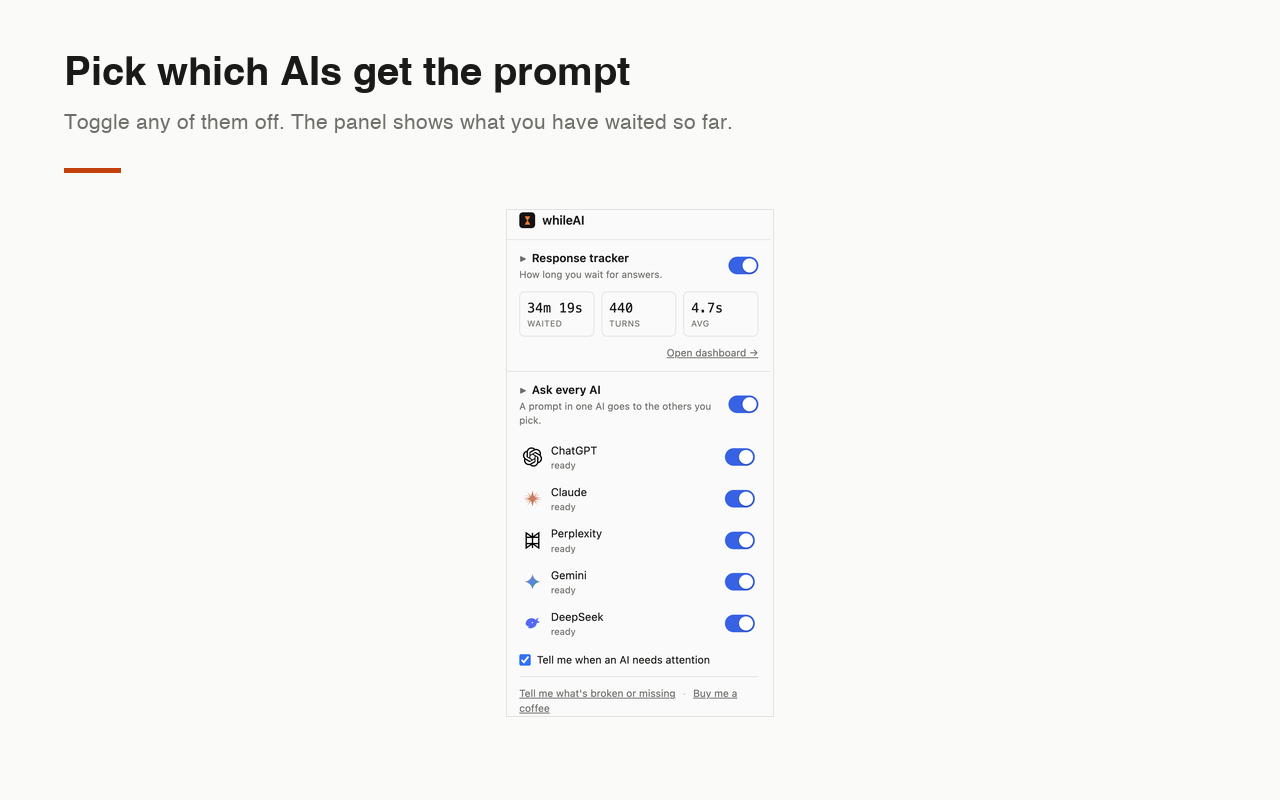
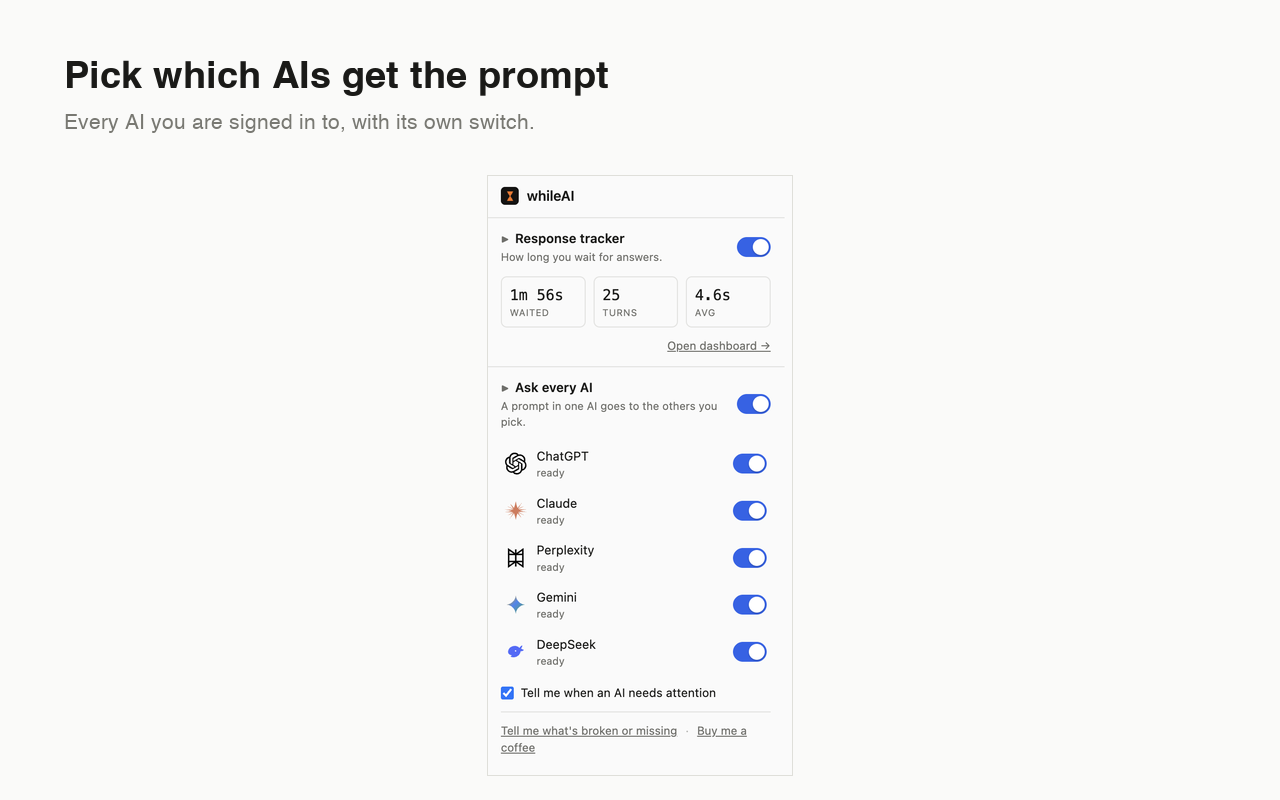
release: 0.8.2, and a five-AI demo
The demo showed two AIs while the copy claimed five, so the picture leaned on
its caption to make the product's main claim. All five accounts are signed in,
so the recording now shows all five.

- img/demo5.gif replaces img/demo.gif: one prompt typed in ChatGPT arriving in
  Claude, Perplexity, Gemini and DeepSeek. The source pane is large and the
  four targets tiled, so it is visible which tab was typed in. Recorded AFTER
  the phantom-prompt fix, so no pane holds text the user never wrote, and with
  Gemini in English -- an earlier take had a Turkish UI in a shot meant for an
  English listing.
- img/popup.png and store-assets/screenshot-3-panel.png: the panel with all
  five AIs listed "ready", replacing a capture whose section was collapsed and
  whose frame was half empty. Declared width/height match the files, so the
  page does not shift as images load.
- Drops screenshot-1-dashboard.png and screenshot-2-popup.png, superseded by
  the numbered six-shot set, so there is no ambiguity about what to upload.
- Version 0.8.2, carrying the fix in the previous commit.

The raw capture frames are deliberately NOT here: 19MB of screenshots for one
583KB GIF. They live beside the repo in ../whileai-recordings/ with the
scripts that made them, and scripts/make-demo-gif5.mjs documents the rebuild
command. Verified that it reproduces img/demo5.gif byte for byte from that
copy; recordings/ is in .gitignore so it cannot drift back in.

diff --git a/index.html b/index.html
@@ -71,13 +71,13 @@
 </figure>
 
 <figure class="shot wide">
-  <img src="img/demo.gif" alt="A recording of the extension in use: a prompt typed in ChatGPT appears on its own in a Claude tab, and both answer." width="1300" height="496" loading="lazy" />
+  <img src="img/demo5.gif" alt="A recording of the extension in use: a prompt typed in ChatGPT arrives on its own in Claude, Perplexity, Gemini and DeepSeek, and all five answer." width="1556" height="538" loading="lazy" />
   <figcaption>Not a mock-up — a recording of the extension running. The prompt
-  was typed only in the left tab.</figcaption>
+  was typed only in the ChatGPT tab; the other four received it on their own.</figcaption>
 </figure>
 
 <figure class="shot panel">
-  <img src="img/popup.png" alt="The whileAI panel: five AI services listed, each with a toggle, above waiting-time statistics." width="930" height="1772" />
+  <img src="img/popup.png" alt="The whileAI panel: ChatGPT, Claude, Perplexity, Gemini and DeepSeek each listed as ready with their own toggle, above waiting-time statistics." width="615" height="1208" />
   <figcaption>Pick which AIs get the prompt. The panel also shows what you have
   waited so far.</figcaption>
 </figure>

diff --git a/CHANGELOG.md b/CHANGELOG.md
@@ -1,5 +1,22 @@
 # Changelog
 
+## 0.8.2 — 2026-09-09
+
+- **An AI's own status text is never relayed as your prompt.** While an answer
+  streamed, DeepSeek rendered progress notices ("Read 12 web pages",
+  "Searching for ...") inside the same containers that hold user messages, so
+  the extension read them as something you had typed and sent them on to the
+  other four AIs. With capture enabled on every tab, each target then became a
+  source and the text went round again — one prompt produced six queue
+  entries, two of which you never wrote.
+
+  A captured prompt must now still be the last user message a moment later.
+  That is a structural test, not a list of phrases to ignore: a real prompt
+  stays in the transcript, a status notice does not, so it holds for any
+  provider in any language. DeepSeek's user-message selector was also
+  narrowed to a semantic attribute, replacing a build-generated class name
+  that changed on every deploy.
+
 ## 0.8.1 — 2026-09-09
 
 First update since the store listing went live.
